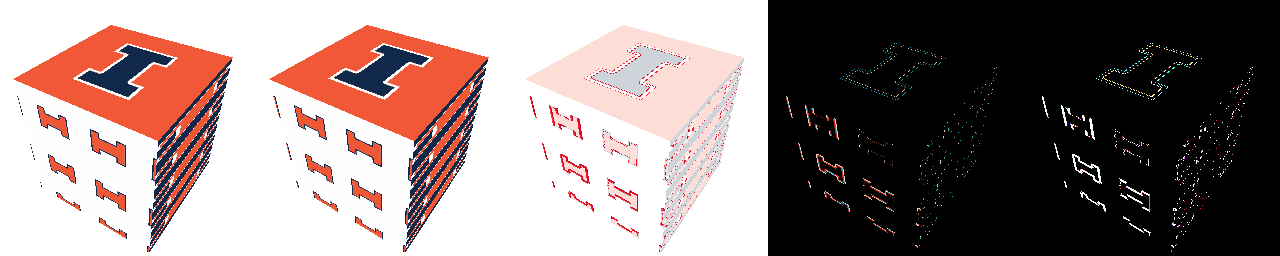
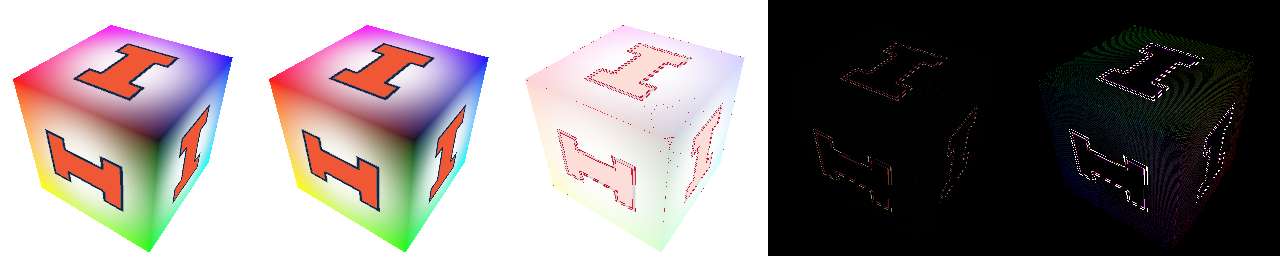
finished decals

diff --git a/MP1_Rasterizer/rasterizer.py b/MP1_Rasterizer/rasterizer.py
@@ -220,6 +220,7 @@ sRGB = False
 hyp = False
 uniform = False
 texture = False
+color = False
 
 currPixels = []
 
@@ -258,15 +259,6 @@ with open(sys.argv[1], 'r') as filename:
                 texel = [floats[i], floats[i+1]] 
                 texelCoords.append(texel)
             print("texelCoords: ", texelCoords) 
-            #     coordRGBA = list(texturePNG.getpixel(texel))  # get the rgba value at the texel coord in texture image
-
-            #     for i in range(len(coordRGBA)): # convert the rgba values to be between 0 and 1
-            #         coordRGBA[i] /= 255
-                
-            #     if len(coordRGBA) == 3:
-            #         coordRGBA += [1.0]
-                
-            #     colors.append(coordRGBA)
             # print("colors", colors)
 
         elif line.find("depth") != -1:    
@@ -324,6 +316,7 @@ with open(sys.argv[1], 'r') as filename:
             print("positions: ", positions)
 
         elif line.find("color") != -1:
+            color = True
             colors = []
             colorSize = int(line.split()[1])
             floatsString = line.split()[2:]
@@ -347,15 +340,17 @@ with open(sys.argv[1], 'r') as filename:
             count = int(line.split()[2])
 
             positionsToDraw = []
+            texelsToDraw = []
             colorsToDraw = []
             
             for i in range(0, count, 3):
                 positionsToDraw = [positions[first + i], positions[first + i + 1], positions[first + i + 2]]
                 if texture:
                     texelsToDraw = [texelCoords[first + i], texelCoords[first + i + 1], texelCoords[first + i + 2]]
-                else:
+                if color:
                     colorsToDraw = [colors[first + i], colors[first + i + 1], colors[first + i + 2]]
 
+                print("texelsToDraw: ", texelsToDraw)
                 pointsToDraw = []
                 pixelsToDraw = []
 
@@ -393,41 +388,121 @@ with open(sys.argv[1], 'r') as filename:
                 b_rgba = []
                 c_rgba = []
 
+                a_st = []
+                b_st = []
+                c_st = []
+
                 if hyp:
-                    for i in range(3): # divides each point's rgb value by its respective w
-                        a_rgba += [colorsToDraw[0][i]/(1/a[3])] 
-                        b_rgba += [colorsToDraw[1][i]/(1/b[3])]
-                        c_rgba += [colorsToDraw[2][i]/(1/c[3])]
-                    a_rgba += [colorsToDraw[0][3]]
-                    b_rgba += [colorsToDraw[1][3]]
-                    c_rgba += [colorsToDraw[2][3]]
+                    if texture:
+                        for i in range(2):
+                            a_st += [texelsToDraw[0][i]/(1/a[3])]
+                            b_st += [texelsToDraw[1][i]/(1/b[3])]
+                            c_st += [texelsToDraw[2][i]/(1/c[3])]
+                    else:
+                        a_st = [0,0]
+                        b_st = [0,0]
+                        c_st = [0,0]
+                    
+                    if color:
+                        for i in range(3): # divides each point's rgb value by its respective w
+                            a_rgba += [colorsToDraw[0][i]/(1/a[3])] 
+                            b_rgba += [colorsToDraw[1][i]/(1/b[3])]
+                            c_rgba += [colorsToDraw[2][i]/(1/c[3])]
+                        a_rgba += [colorsToDraw[0][3]]
+                        b_rgba += [colorsToDraw[1][3]]
+                        c_rgba += [colorsToDraw[2][3]]
+                    else:
+                        a_rgba = [0,0,0,0]
+                        b_rgba = [0,0,0,0]
+                        c_rgba = [0,0,0,0]
 
                 else:
-                    a_rgba = colorsToDraw[0]
-                    b_rgba = colorsToDraw[1]
-                    c_rgba = colorsToDraw[2]
+                    if texture:
+                        a_st += texelsToDraw[0]
+                        b_st += texelsToDraw[1]
+                        c_st += texelsToDraw[2]
+                    else:
+                        a_st = [0,0]
+                        b_st = [0,0]
+                        c_st = [0,0]
+                    
+                    if color:
+                        a_rgba = colorsToDraw[0]
+                        b_rgba = colorsToDraw[1]
+                        c_rgba = colorsToDraw[2]
+                    else:
+                        a_rgba = [0,0,0,0]
+                        b_rgba = [0,0,0,0]
+                        c_rgba = [0,0,0,0]
 
-                a += a_rgba
-                b += b_rgba
-                c += c_rgba
+                a += a_rgba + a_st
+                b += b_rgba + b_st
+                c += c_rgba + c_st
 
                 # print("new colorsToDraw: ", a_rgba, b_rgba, c_rgba)
 
                 pixelsToDraw += scanline_algo(a, b, c)
+                # print("all pixelsToDraw: ", pixelsToDraw)
 
                 for pixel in pixelsToDraw:
                     x = pixel[0]
                     y = pixel[1]
                     z = pixel[2]
                     w = pixel[3]
+
+                    vertColor = pixel[4:8]
+
+                    s = pixel[8]
+                    t = pixel[9]
+
+                    # print("s,t: ", s,t)
+                    if texture:
+                        s /= w
+                        t /= w
+
+                        # handle wrap coordinates
+                        while s > 1:
+                            s -= 1
+                        while s < 0:
+                            s += 1
+
+                        while t > 1:
+                            t -= 1
+                        while t < 0:
+                            t += 1
+
+                        texel = (s*textureWidth, t*textureHeight) # need to scale texel coord to texture png dimensions
+                        # print("textureWidth, textureHeight, texel: ", textureWidth, textureHeight, texel)
+                        textureRGBA = list(texturePNG.getpixel(texel))  # get the rgba value at the texel coord in texture image
+                        # print("textureRGBA: ", textureRGBA)
+                        for i in range(len(textureRGBA)):
+                            textureRGBA[i] /= 255.0
+                        if len(textureRGBA) == 3:
+                            textureRGBA += [1.0]
+                        
+                        textureRGBA = srgbToLinear(textureRGBA)
                     # print("new w: ", w)
                     # print("rgb without w division: ", pixel[4:8])
-                    for i in range(4,7):
-                        if hyp:
-                            pixel[i] /= w # divide rgb by interpolated 1/w
-                            
+                    if color:
+                        for i in range(3):
+                            if hyp:
+                                vertColor[i] /= w # divide rgb by interpolated 1/w
+                    
+                    finalColor = []
+                    if texture and color:
+                        for i in range(3):
+                            finalColor += [textureRGBA[i]*textureRGBA[3] + vertColor[i]*(1-textureRGBA[3])]   # including vertex color underneath transparent texture
+                        finalColor += [textureRGBA[3] + vertColor[3] - (textureRGBA[3]*vertColor[3])]
+                    elif texture:
+                        finalColor = textureRGBA
+                    elif color:
+                        finalColor = vertColor
+                    
                     if sRGB:
-                        pixel[4:7] = linearToSRGB(pixel[4:7])
+                        if texture:
+                            textureRGBA = linearToSRGB(textureRGBA)
+                        if color:
+                            vertColor = linearToSRGB(vertColor)
                     # print("new color rgb: ", pixel[4:7])
 
                     if(-width < x < width and -height < y < height):
@@ -436,8 +511,8 @@ with open(sys.argv[1], 'r') as filename:
 
                         if(existingPos):
                             if(existingPos[0][2] >= z):
-                                d_rgba = srgbToLinear(existingPos[0][4:])
-                                s_rgba = srgbToLinear(pixel[4:])
+                                d_rgba = srgbToLinear(existingPos[0][4:8])
+                                s_rgba = srgbToLinear(finalColor)
                                 new_rgba = []
 
                                 new_a = s_rgba[3] + d_rgba[3]*(1 - s_rgba[3])
@@ -463,10 +538,10 @@ with open(sys.argv[1], 'r') as filename:
                                 currPixels.append([x,y,z,w,r,g,b,a])
 
                         else:
-                            r = pixel[4]
-                            g = pixel[5]
-                            b = pixel[6]
-                            a = pixel[7]
+                            r = finalColor[0]
+                            g = finalColor[1]
+                            b = finalColor[2]
+                            a = finalColor[3]
                             image.putpixel((int(x),int(y)), (int(r*255),int(g*255),int(b*255),int(a*255)))
                             # print("put down pixel xyrgba: ", x,y,r,g,b,a)
                             currPixels.append([x,y,z,w,r,g,b,a])
@@ -492,7 +567,7 @@ with open(sys.argv[1], 'r') as filename:
                 positionsToDraw = [positions[elements[offset + i]], positions[elements[offset + i + 1]], positions[elements[offset + i + 2]]]
                 if texture:
                     texelsToDraw = [texelCoords[elements[offset + i]], texelCoords[elements[offset + i + 1]], texelCoords[elements[offset + i + 2]]]
-                else:
+                if color:
                     colorsToDraw = [colors[elements[offset + i]], colors[elements[offset + i + 1]], colors[elements[offset + i + 2]]]
 
                 print("texelsToDraw: ", texelsToDraw)
@@ -543,10 +618,12 @@ with open(sys.argv[1], 'r') as filename:
                             a_st += [texelsToDraw[0][i]/(1/a[3])]
                             b_st += [texelsToDraw[1][i]/(1/b[3])]
                             c_st += [texelsToDraw[2][i]/(1/c[3])]
-                        a_rgba = [0,0,0,0]
-                        b_rgba = [0,0,0,0]
-                        c_rgba = [0,0,0,0]
                     else:
+                        a_st = [0,0]
+                        b_st = [0,0]
+                        c_st = [0,0]
+                    
+                    if color:
                         for i in range(3): # divides each point's rgb value by its respective w
                             a_rgba += [colorsToDraw[0][i]/(1/a[3])] 
                             b_rgba += [colorsToDraw[1][i]/(1/b[3])]
@@ -554,28 +631,29 @@ with open(sys.argv[1], 'r') as filename:
                         a_rgba += [colorsToDraw[0][3]]
                         b_rgba += [colorsToDraw[1][3]]
                         c_rgba += [colorsToDraw[2][3]]
-
-                        a_st = [0,0]
-                        b_st = [0,0]
-                        c_st = [0,0]
+                    else:
+                        a_rgba = [0,0,0,0]
+                        b_rgba = [0,0,0,0]
+                        c_rgba = [0,0,0,0]
 
                 else:
                     if texture:
                         a_st += texelsToDraw[0]
                         b_st += texelsToDraw[1]
                         c_st += texelsToDraw[2]
-
-                        a_rgba = [0,0,0,0]
-                        b_rgba = [0,0,0,0]
-                        c_rgba = [0,0,0,0]
                     else:
-                        a_rgba = colorsToDraw[0]
-                        b_rgba = colorsToDraw[1]
-                        c_rgba = colorsToDraw[2]
-
                         a_st = [0,0]
                         b_st = [0,0]
                         c_st = [0,0]
+                    
+                    if color:
+                        a_rgba = colorsToDraw[0]
+                        b_rgba = colorsToDraw[1]
+                        c_rgba = colorsToDraw[2]
+                    else:
+                        a_rgba = [0,0,0,0]
+                        b_rgba = [0,0,0,0]
+                        c_rgba = [0,0,0,0]
 
                 a += a_rgba + a_st
                 b += b_rgba + b_st
@@ -591,6 +669,8 @@ with open(sys.argv[1], 'r') as filename:
                     y = pixel[1]
                     z = pixel[2]
                     w = pixel[3]
+
+                    vertColor = pixel[4:8]
 
                     s = pixel[8]
                     t = pixel[9]
@@ -619,19 +699,27 @@ with open(sys.argv[1], 'r') as filename:
                             textureRGBA[i] /= 255.0
                         if len(textureRGBA) == 3:
                             textureRGBA += [1.0]
-                        for i in range(4):
-                            pixel[i+4] = textureRGBA[i]
                         
-                        pixel[4:7] = srgbToLinear(pixel[4:7])
+                        textureRGBA = srgbToLinear(textureRGBA)
                     # print("new w: ", w)
                     # print("rgb without w division: ", pixel[4:8])
-                    else:
-                        for i in range(4,7):
+                    if color:
+                        for i in range(3):
                             if hyp:
-                                pixel[i] /= w # divide rgb by interpolated 1/w
-
+                                vertColor[i] /= w # divide rgb by interpolated 1/w
+                    
+                    finalColor = []
+                    if texture and color:
+                        for i in range(3):
+                            finalColor += [textureRGBA[i]*textureRGBA[3] + vertColor[i]*(1-textureRGBA[3])]   # including vertex color underneath transparent texture
+                        finalColor += [textureRGBA[3] + vertColor[3] - (textureRGBA[3]*vertColor[3])]
+                    elif texture:
+                        finalColor = textureRGBA
+                    elif color:
+                        finalColor = vertColor
+                    
                     if sRGB:
-                        pixel[4:7] = linearToSRGB(pixel[4:7])
+                        finalColor = linearToSRGB(finalColor)
                     # print("new color rgb: ", pixel[4:7])
 
                     if(-width < x < width and -height < y < height):
@@ -641,7 +729,7 @@ with open(sys.argv[1], 'r') as filename:
                         if(existingPos):
                             if(existingPos[0][2] >= z):
                                 d_rgba = srgbToLinear(existingPos[0][4:8])
-                                s_rgba = srgbToLinear(pixel[4:8])
+                                s_rgba = srgbToLinear(finalColor)
                                 new_rgba = []
 
                                 new_a = s_rgba[3] + d_rgba[3]*(1 - s_rgba[3])
@@ -667,10 +755,10 @@ with open(sys.argv[1], 'r') as filename:
                                 currPixels.append([x,y,z,w,r,g,b,a])
 
                         else:
-                            r = pixel[4]
-                            g = pixel[5]
-                            b = pixel[6]
-                            a = pixel[7]
+                            r = finalColor[0]
+                            g = finalColor[1]
+                            b = finalColor[2]
+                            a = finalColor[3]
                             image.putpixel((int(x),int(y)), (int(r*255),int(g*255),int(b*255),int(a*255)))
                             # print("put down pixel xyrgba: ", x,y,r,g,b,a)
                             currPixels.append([x,y,z,w,r,g,b,a])
